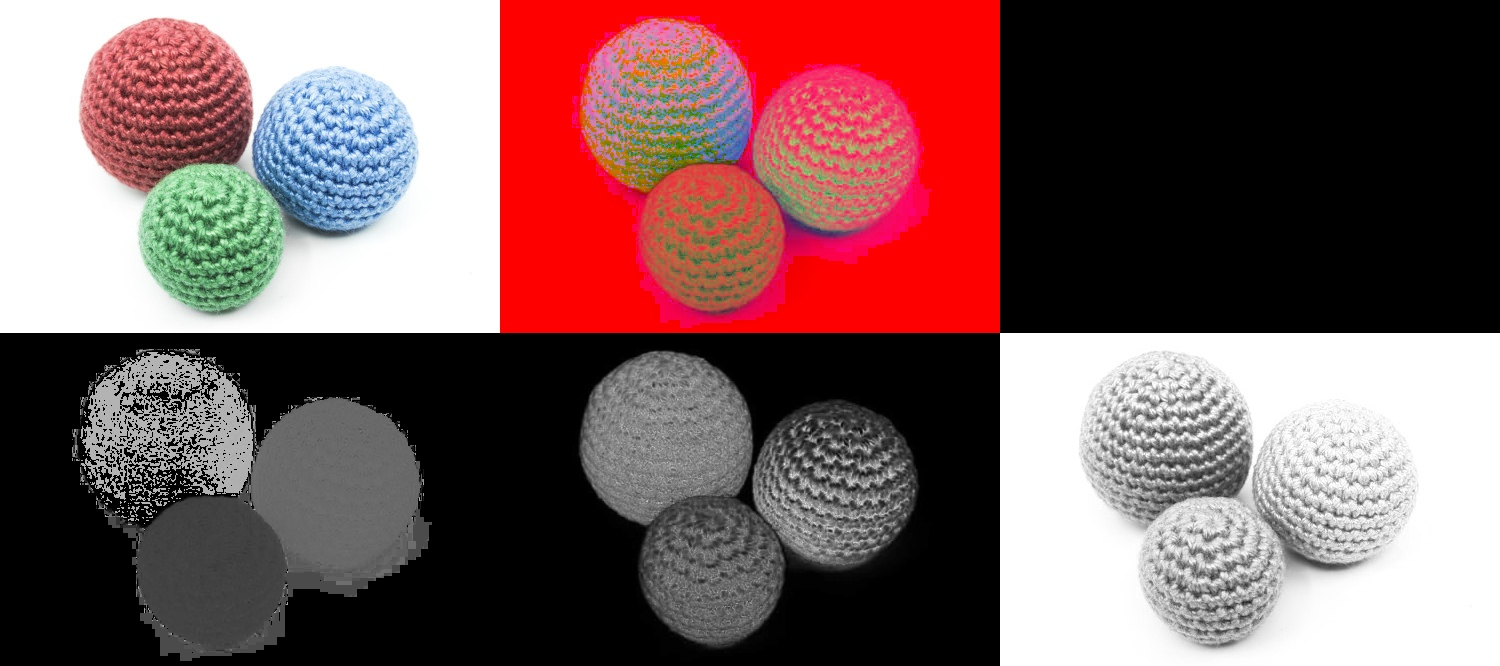
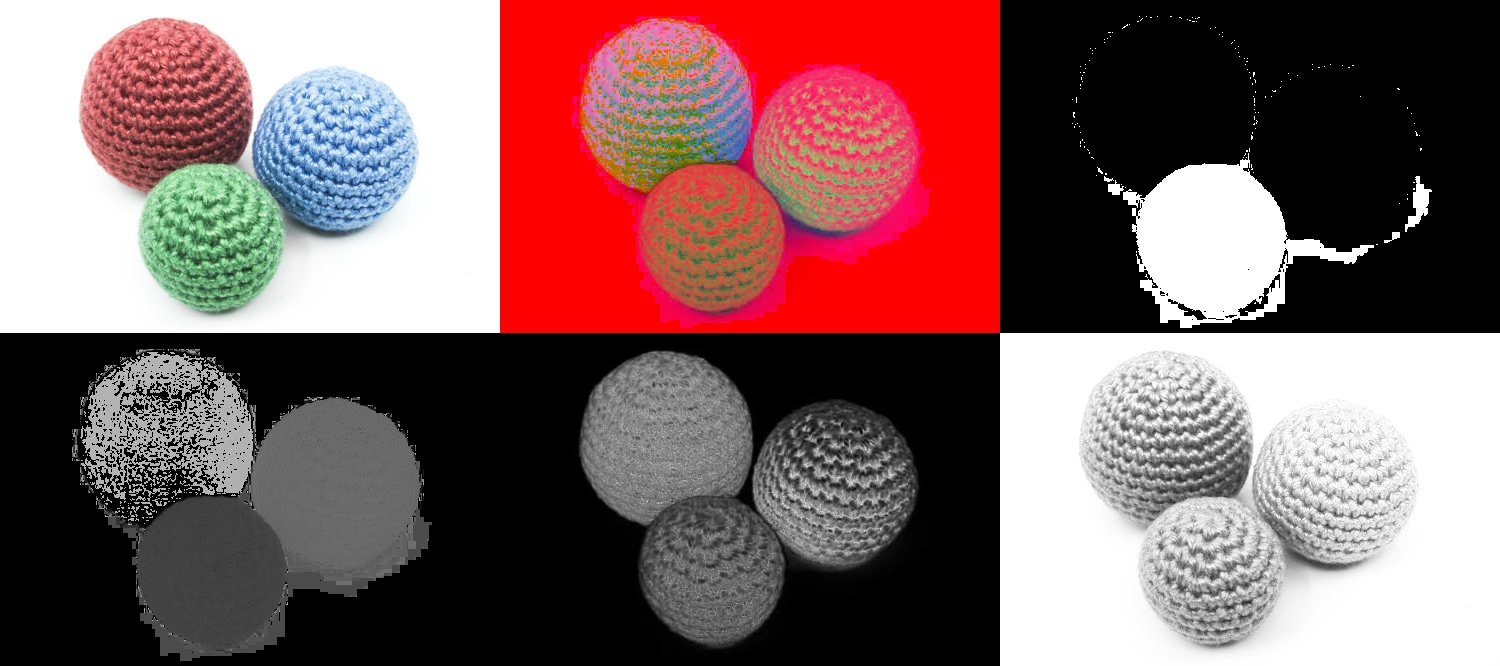
Hsv thresholding on H

Changed region(s): [[0.736, 0.2402, 0.92, 0.5105], [0.92, 0.2703, 0.9507, 0.3604]]

diff --git a/TP1/TP1_EmguCV/Program.cs b/TP1/TP1_EmguCV/Program.cs
@@ -9,7 +9,49 @@ namespace TP1_EmguCV {
     class Program {
         static void Main(string[] args) {
 
-            Exercice5();
+            Exercice6();
+
+        }
+
+        static void Exercice6() {
+
+            String window = "TP1 - Exercice 6";
+            CvInvoke.NamedWindow(window);
+
+            /* Reading the base image */
+            Mat matBase = new Mat("..\\..\\..\\..\\images\\crochet.jpg"); //Because it is located in directory "netcoreapp3.1"
+
+            /* Applying treatment */
+
+            // Convert base image to HSV
+            Mat matHsv = new Mat(matBase.Width, matBase.Height, DepthType.Cv8U, 2);
+            CvInvoke.CvtColor(matBase, matHsv, ColorConversion.Bgr2Hsv);
+            Image<Hsv, Byte> imgHsv = matHsv.ToImage<Hsv, Byte>();
+
+            // Thresholding the image
+            Hsv borneInf = new Hsv(50, 0, 0);
+            Hsv borneSup = new Hsv(75, 255, 255);
+
+            Image<Gray, Byte> imgThreshold = imgHsv.InRange(borneInf, borneSup);
+
+            /* Writing the result image */
+            Image<Bgr, Byte> resultImage = new Image<Bgr, byte>(matBase.Width * 3, matBase.Height * 2);
+
+            Image<Bgr, Byte> imgBase = matBase.ToImage<Bgr, Byte>();
+
+            CopyToImage(ref imgBase, ref resultImage, 0, 0);
+            CopyToImage(ref imgHsv, ref resultImage, imgBase.Width, 0);
+            CopyToImage(ref imgThreshold, ref resultImage, imgBase.Width * 2, 0);
+            GrayCopyChannelToImage(ref imgHsv, ref resultImage, 0, imgBase.Height, 0);
+            GrayCopyChannelToImage(ref imgHsv, ref resultImage, imgBase.Width, imgBase.Height, 1);
+            GrayCopyChannelToImage(ref imgHsv, ref resultImage, imgBase.Width * 2, imgBase.Height, 2);
+
+            resultImage.Save("..\\..\\..\\..\\images\\resultEx6.jpg");
+
+
+            CvInvoke.Imshow(window, resultImage.Mat);
+            CvInvoke.WaitKey(0);  //Wait for the key pressing event
+            CvInvoke.DestroyWindow(window); //Destroy the window if key is pressed
 
         }
 
@@ -18,24 +60,36 @@ namespace TP1_EmguCV {
             String window = "TP1 - Exercice 5";
             CvInvoke.NamedWindow(window);
 
+            /* Reading the base image */
             Mat matBase = new Mat("..\\..\\..\\..\\images\\crochet.jpg"); //Because it is located in directory "netcoreapp3.1"
 
+            /* Applying treatment */
+
+            // Convert base image to HSV
             Mat matHsv = new Mat(matBase.Width, matBase.Height, DepthType.Cv8U, 2);
-
             CvInvoke.CvtColor(matBase, matHsv, ColorConversion.Bgr2Hsv);
+            Image<Hsv, Byte> imgHsv = matHsv.ToImage<Hsv, Byte>();
 
+            // Thresholding the image
+            Hsv borneInf = new Hsv(50, 0, 0);
+            Hsv borneSup = new Hsv(75, 255, 255);
+
+            Image<Gray, Byte> imgThreshold = imgHsv.InRange(borneInf, borneSup);
+
+            /* Writing the result image */
             Image<Bgr, Byte> resultImage = new Image<Bgr, byte>(matBase.Width * 3, matBase.Height * 2);
 
             Image<Bgr, Byte> imgBase = matBase.ToImage<Bgr, Byte>();
-            Image<Hsv, Byte> imgHsv = matHsv.ToImage<Hsv, Byte>();
 
             CopyToImage(ref imgBase, ref resultImage, 0, 0);
             CopyToImage(ref imgHsv, ref resultImage, imgBase.Width, 0);
+            CopyToImage(ref imgThreshold, ref resultImage, imgBase.Width * 2, 0);
             GrayCopyChannelToImage(ref imgHsv, ref resultImage, 0, imgBase.Height, 0);
             GrayCopyChannelToImage(ref imgHsv, ref resultImage, imgBase.Width, imgBase.Height, 1);
             GrayCopyChannelToImage(ref imgHsv, ref resultImage, imgBase.Width * 2, imgBase.Height, 2);
 
             resultImage.Save("..\\..\\..\\..\\images\\resultEx5.jpg");
+
 
             CvInvoke.Imshow(window, resultImage.Mat);
             CvInvoke.WaitKey(0);  //Wait for the key pressing event
